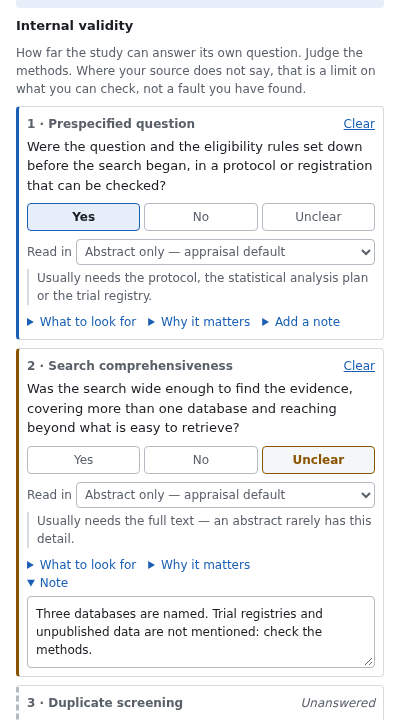
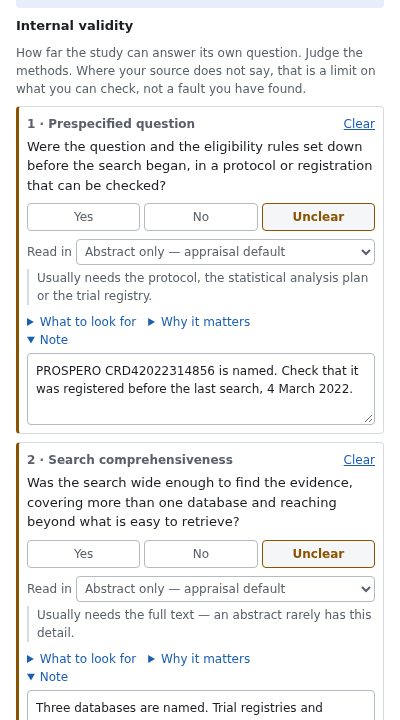
fix(site): harden the example page and the Markdown reader, per review
- The note says exactly what a person did in the capture: typed the PICO,
  chose the ratio and entered the baseline risk, marked two questions
  Unclear with notes, wrote the bottom line. It also says the absolute
  figures are recomputed, so they differ from the abstract's crude rates.
- Item 1 is now Unclear with a note to check the registration date. The
  abstract names PROSPERO but not when it was registered, and the checklist
  says the question needs the registry. screenshot-3 and appraisal.png are
  re-rendered for it.
- The page has its own h1, with the summary's headings moved down one level,
  is kept out of search indexes, and names its link.
- The Markdown reader no longer loops forever on a line such as `#1 finding`.
  A numbered line only interrupts a paragraph when it starts at 1, a list
  keeps its start number, and a DOI's parentheses stay in the link.
- The capture checks the PICO, the NNT and both notes in the downloaded file,
  and `pnpm store:assets` rebuilds the site pages afterwards.
- The generated pages' footer says the tool is not clinical decision support.

diff --git a/site/sample/index.html b/site/sample/index.html
@@ -6,6 +6,7 @@
     <meta name="viewport" content="width=device-width, initial-scale=1" />
     <title>Example one-page summary · Journal Club Helper</title>
     <meta name="description" content="An unedited one-page summary exported from Journal Club Helper." />
+    <meta name="robots" content="noindex" />
     <link rel="icon" href="/favicon.svg" type="image/svg+xml" />
     <link rel="stylesheet" href="/style.css" />
   </head>
@@ -14,46 +15,48 @@
       <a class="brand" href="/"><img src="/favicon.svg" alt="" width="28" height="28" />Journal Club Helper</a>
     </header>
     <main class="doc">
-<aside class="note">
-<p><strong>Example.</strong> This is a one-page summary exported from Journal Club Helper and not edited since, for a published meta-analysis in The BMJ. For this example, the PICO, the baseline risk in the Numbers tab, two checklist answers with a note, and the bottom line were typed in by hand, as a reader would. The rest is what the extension filled in, or left for the reader.</p>
-<p>The bottom line only shows what a reader might write. It is not a clinical conclusion and not advice. The Markdown file itself is <a href="/sample/summary.md">here</a>.</p>
-</aside>
-<h1>Efficacy of awake prone positioning in patients with covid-19 related hypoxemic respiratory failure: systematic review and meta-analysis of randomized trials</h1>
+<h1>Example one-page summary</h1>
+<div class="note">
+<p>This is a one-page summary exported from Journal Club Helper, unedited, for a published meta-analysis in The BMJ. For this example a person did what a reader would: typed the PICO, chose which of the abstract's ratios to use and entered the baseline risk to apply it to, marked two checklist questions Unclear with a note on each, and wrote the bottom line. The rest is what the extension filled in or calculated, or left blank for the reader.</p>
+<p>The absolute figures are calculated from the relative risk and that baseline risk, so they differ a little from the crude rates the abstract reports. The bottom line only shows what a reader might write. It is not a clinical conclusion and not advice.</p>
+<p><a href="/sample/summary.md">The exported Markdown file</a> is available as well.</p>
+</div>
+<h2>Efficacy of awake prone positioning in patients with covid-19 related hypoxemic respiratory failure: systematic review and meta-analysis of randomized trials</h2>
 <p>Weatherald J, Parhar KKS, Al Duhailib Z, et al. BMJ. 2022. PMID <a href="https://pubmed.ncbi.nlm.nih.gov/36740866/">36740866</a>. DOI <a href="https://doi.org/10.1136/bmj-2022-071966">10.1136/bmj-2022-071966</a>.</p>
-<h2>Clinical question (PICO)</h2>
+<h3>Clinical question (PICO)</h3>
 <table><thead><tr><th>Element</th><th>Detail</th></tr></thead><tbody><tr><td>Population</td><td>Non-intubated adults with hypoxemic respiratory failure due to covid-19</td></tr><tr><td>Intervention</td><td>Awake prone positioning</td></tr><tr><td>Comparison</td><td>Usual care</td></tr><tr><td>Outcome</td><td>Endotracheal intubation</td></tr></tbody></table>
-<h2>Study design</h2>
+<h3>Study design</h3>
 <p><strong>Systematic review / meta-analysis</strong></p>
 <p>Meta-analysis</p>
 <p>Detected from publication type. Evidence: Meta-Analysis (publication type), Systematic Review (publication type), meta-analysis (abstract keyword).</p>
-<h2>Key results</h2>
+<h3>Key results</h3>
 <ul><li>Reported relative effect: RR 0.83 (95% CI 0.73–0.94)</li><li>CER (assumed control event rate): 29.8%</li><li>EER (experimental event rate): 24.7%</li><li>ARR (absolute risk reduction): 5.1 percentage points (95% CI 1.8 to 8.0)</li><li>RRR (relative risk reduction): 17.0%</li><li>NNT 20 (95% CI 13–56)</li></ul>
 <p>Notes on these numbers:</p>
 <ul><li>This absolute effect is estimated from an assumed control event rate of 29.8%, so it only applies to patients whose untreated risk is close to that figure.</li></ul>
-<h2>Critical appraisal</h2>
+<h3>Critical appraisal</h3>
 <p>Appraised from: Abstract only.</p>
 <p>An Unclear verdict means the source above does not settle that question: it records a limit on what the reader could check, not a fault found in the study. Where an item was checked against a different document, that source is shown beside its verdict.</p>
-<h3>Internal validity</h3>
-<table><thead><tr><th>#</th><th>Item</th><th>Verdict</th></tr></thead><tbody><tr><td>1</td><td>Were the question and the eligibility rules set down before the search began, in a protocol or registration that can be checked?</td><td>Yes</td></tr><tr><td>2</td><td>Was the search wide enough to find the evidence, covering more than one database and reaching beyond what is easy to retrieve?</td><td>Unclear</td></tr><tr><td>3</td><td>Did two or more people screen the records and extract the data independently, with a stated way of settling disagreements?</td><td>—</td></tr><tr><td>4</td><td>Was each included study appraised for how it was conducted, and does that appraisal feed into what the review concludes?</td><td>—</td></tr><tr><td>5</td><td>Was the scatter between the individual study results examined and explained, rather than only reported as a statistic?</td><td>—</td></tr><tr><td>6</td><td>Are the studies alike enough in population, intervention and outcome definition for a single combined number to mean anything?</td><td>—</td></tr><tr><td>7</td><td>Did the review confront the possibility that completed studies were never published, or that the small ones report larger effects than the large ones?</td><td>—</td></tr><tr><td>8</td><td>Is the confidence the pooled estimate deserves stated, taking in the soundness, the consistency, the precision and the relevance of what went into it?</td><td>—</td></tr></tbody></table>
-<h3>Applicability</h3>
+<h4>Internal validity</h4>
+<table><thead><tr><th>#</th><th>Item</th><th>Verdict</th></tr></thead><tbody><tr><td>1</td><td>Were the question and the eligibility rules set down before the search began, in a protocol or registration that can be checked?</td><td>Unclear</td></tr><tr><td>2</td><td>Was the search wide enough to find the evidence, covering more than one database and reaching beyond what is easy to retrieve?</td><td>Unclear</td></tr><tr><td>3</td><td>Did two or more people screen the records and extract the data independently, with a stated way of settling disagreements?</td><td>—</td></tr><tr><td>4</td><td>Was each included study appraised for how it was conducted, and does that appraisal feed into what the review concludes?</td><td>—</td></tr><tr><td>5</td><td>Was the scatter between the individual study results examined and explained, rather than only reported as a statistic?</td><td>—</td></tr><tr><td>6</td><td>Are the studies alike enough in population, intervention and outcome definition for a single combined number to mean anything?</td><td>—</td></tr><tr><td>7</td><td>Did the review confront the possibility that completed studies were never published, or that the small ones report larger effects than the large ones?</td><td>—</td></tr><tr><td>8</td><td>Is the confidence the pooled estimate deserves stated, taking in the soundness, the consistency, the precision and the relevance of what went into it?</td><td>—</td></tr></tbody></table>
+<h4>Applicability</h4>
 <p>Applicability is not internal validity. A trial can be conducted impeccably and still not transfer to the patient in front of you, and a trial with real methodological weaknesses can still be about exactly your patient. Nothing below is a verdict on how the study was run.</p>
 <table><thead><tr><th>#</th><th>Item</th><th>Verdict</th></tr></thead><tbody><tr><td>9</td><td>Do the populations, interventions and comparators inside the review match the patients and the usual care you are deciding about?</td><td>—</td></tr></tbody></table>
-<h3>Funding &amp; conflicts</h3>
+<h4>Funding &amp; conflicts</h4>
 <p>Recorded as fact, never scored. Industry funding is not by itself a source of bias, and a field left blank means nothing was recorded here — not that there was nothing to record.</p>
 <ul><li>Funder: Not recorded.</li><li>Sponsor or funder role: Not recorded.</li><li>Author conflicts declared: Not recorded.</li><li>Where this came from: Not recorded.</li></ul>
-<h3>Notes on flagged items</h3>
+<h4>Notes on flagged items</h4>
 <p>Items answered No — judgements the reader made, about the study or about its fit:</p>
 <ul><li>None.</li></ul>
 <p>Items answered Unclear — the source used does not settle these, which is not a finding against the study:</p>
-<ul><li>Item 2: Three databases are named. Trial registries and unpublished data are not mentioned: check the methods. Usually needs the full text — an abstract rarely has this detail.</li></ul>
-<h2>Bottom line</h2>
+<ul><li>Item 1: PROSPERO CRD42022314856 is named. Check that it was registered before the last search, 4 March 2022. Usually needs the protocol, the statistical analysis plan or the trial registry.</li><li>Item 2: Three databases are named. Trial registries and unpublished data are not mentioned: check the methods. Usually needs the full text — an abstract rarely has this detail.</li></ul>
+<h3>Bottom line</h3>
 <p>Pooled trials show fewer intubations with awake prone positioning, and no clear effect on mortality. How the trials differed in setting and adherence needs the full text.</p>
-<h2>Discussion questions</h2>
+<h3>Discussion questions</h3>
 <ol><li></li><li></li><li></li></ol>
 <p>Generated with Journal Club Helper for educational purposes. Verify against the full text.</p>
     </main>
     <footer class="foot">
-      <p>Educational use only. Not affiliated with NLM, NIH or HHS.</p>
+      <p>Educational use only, not clinical decision support. Not affiliated with NLM, NIH or HHS.</p>
     </footer>
   </body>
 </html>

diff --git a/store/capture.spec.ts b/store/capture.spec.ts
@@ -42,6 +42,8 @@ const PICO = {
 const RATIO_RAW = 'relative risk 0.83, 95% confidence interval 0.73 to 0.94';
 const BASELINE_RISK = '29.8';
 const EXPECTED_NNT = 'NNT 20 (95% CI 13–56)';
+const REGISTRATION_NOTE =
+  'PROSPERO CRD42022314856 is named. Check that it was registered before the last search, 4 March 2022.';
 const SEARCH_NOTE =
   'Three databases are named. Trial registries and unpublished data are not mentioned: check the methods.';
 const BOTTOM_LINE =
@@ -200,13 +202,19 @@ test('store listing images', async ({ context, page, extensionId }) => {
     'Apply a ratio from the abstract to a baseline risk and see the ARR and the NNT, with the 95% CI carried over.',
   );
 
-  // 3. The appraisal checklist, answered from what the abstract says.
+  // 3. The appraisal checklist, as far as the abstract goes. It names a
+  // registration but not its date, and three databases but nothing beyond
+  // them, so both questions stay Unclear, each with what to check.
   await tab(panel, 'Appraisal');
-  await item(panel, 'Prespecified question').locator('.validity-choice--yes').click();
-  const search = item(panel, 'Search comprehensiveness');
-  await search.locator('.validity-choice--unclear').click();
-  await search.getByText('Add a note').click();
-  await search.locator('.validity-note').fill(SEARCH_NOTE);
+  for (const [concept, note] of [
+    ['Prespecified question', REGISTRATION_NOTE],
+    ['Search comprehensiveness', SEARCH_NOTE],
+  ] as const) {
+    const question = item(panel, concept);
+    await question.locator('.validity-choice--unclear').click();
+    await question.getByText('Add a note').click();
+    await question.locator('.validity-note').fill(note);
+  }
   await blur(panel);
   await panel
     .locator('.validity-section__title')
@@ -240,13 +248,19 @@ test('store listing images', async ({ context, page, extensionId }) => {
 
   // The landing site's example output is this appraisal's summary, saved
   // through the panel's own Download button so it is the file a reader gets.
+  // The note above it (samplePage in scripts/build-site.mjs) lists what was
+  // entered by hand here: change both together.
   const [download] = await Promise.all([
     panel.waitForEvent('download'),
     panel.getByRole('button', { name: 'Download .md' }).click(),
   ]);
   mkdirSync('site/sample', { recursive: true });
   await download.saveAs('site/sample/summary.md');
-  expect(readFileSync('site/sample/summary.md', 'utf8')).toContain(BOTTOM_LINE);
+  const summary = readFileSync('site/sample/summary.md', 'utf8');
+  for (const text of [...Object.values(PICO), EXPECTED_NNT, REGISTRATION_NOTE, SEARCH_NOTE]) {
+    expect(summary).toContain(text);
+  }
+  expect(summary).toContain(BOTTOM_LINE);
 
   // 5. Settings, where the saved appraisal and the local counters are.
   const options = await context.newPage();

diff --git a/tests/lib/build-site.test.ts b/tests/lib/build-site.test.ts
@@ -80,6 +80,34 @@ describe('the landing site builder', () => {
     );
   });
 
+  it('keeps a number that only continues a paragraph, and numbers a list from where it starts', () => {
+    expect(markdownToHtml('# T\nPublished in\n2022. It was large.').html).toBe(
+      '<h1>T</h1>\n<p>Published in 2022. It was large.</p>',
+    );
+    expect(markdownToHtml('# T\nQuestions:\n1. First').html).toBe(
+      '<h1>T</h1>\n<p>Questions:</p>\n<ol><li>First</li></ol>',
+    );
+    expect(markdownToHtml('# T\n\n2022. PMID 1.').html).toBe(
+      '<h1>T</h1>\n<ol start="2022"><li>PMID 1.</li></ol>',
+    );
+  });
+
+  it('reads a line that starts with # but is not a heading as text, instead of stopping', () => {
+    expect(markdownToHtml('# T\n\n#1 finding\nmore').html).toBe(
+      '<h1>T</h1>\n<p>#1 finding more</p>',
+    );
+  });
+
+  it('keeps parentheses inside a link target, as in some DOIs', () => {
+    expect(inline('[doi](https://doi.org/10.1016/S0140-6736(20)30183-5).')).toBe(
+      '<a href="https://doi.org/10.1016/S0140-6736(20)30183-5">doi</a>.',
+    );
+  });
+
+  it('moves headings down when the page has its own h1', () => {
+    expect(markdownToHtml('# T\n\n## S', { headingOffset: 1 }).html).toBe('<h2>T</h2>\n<h3>S</h3>');
+  });
+
   it('fails on Markdown it does not understand instead of publishing it half-converted', () => {
     expect(() => markdownToHtml('# T\n\n* starred')).toThrow(/Unsupported Markdown/);
     expect(() => markdownToHtml('# T\n\n```\ncode\n```')).toThrow(/Unsupported Markdown/);
@@ -97,8 +125,10 @@ describe('the landing site builder', () => {
   it('publishes the example summary with the note on what a person typed', () => {
     const markdown = readFileSync('site/sample/summary.md', 'utf8');
     const page: string = samplePage(markdown);
-    expect(page).toContain('typed in by hand');
+    expect(page).toContain('<h1>Example one-page summary</h1>');
+    expect(page).toContain('a person did what a reader would');
     expect(page).toContain('not a clinical conclusion');
+    expect(page).toContain('<meta name="robots" content="noindex" />');
     for (const [, text] of markdown.matchAll(/^#{1,3} (.+)$/gm)) {
       expect(page).toContain(`>${inline(text)}</h`);
     }

diff --git a/site/index.html b/site/index.html
@@ -67,7 +67,7 @@
             width="400"
             height="720"
             loading="lazy"
-            alt="The Appraisal tab for a meta-analysis: the prespecified question answered Yes, and search comprehensiveness answered Unclear with a note to check the methods."
+            alt="The Appraisal tab for a meta-analysis: the prespecified question and search comprehensiveness both answered Unclear, each with a note on what to check in the full record."
           />
         </div>
 

diff --git a/site/privacy/index.html b/site/privacy/index.html
@@ -50,7 +50,7 @@
 <table><thead><tr><th>Date</th><th>Change</th></tr></thead><tbody><tr><td>TBD(#29)</td><td>First published policy.</td></tr></tbody></table>
     </main>
     <footer class="foot">
-      <p>Educational use only. Not affiliated with NLM, NIH or HHS.</p>
+      <p>Educational use only, not clinical decision support. Not affiliated with NLM, NIH or HHS.</p>
     </footer>
   </body>
 </html>

diff --git a/site/style.css b/site/style.css
@@ -201,7 +201,8 @@ img {
 }
 
 /* A long URL written out as its own link text must not widen a phone screen. */
-.doc a {
+.doc p > a,
+.doc li > a {
   overflow-wrap: anywhere;
 }
 
@@ -211,7 +212,8 @@ img {
 }
 
 .doc h2,
-.doc h3 {
+.doc h3,
+.doc h4 {
   line-height: 1.3;
   margin-top: 1.6em;
 }

diff --git a/docs/HANDOVER.md b/docs/HANDOVER.md
@@ -215,7 +215,7 @@ A rejection names the policy it cites. Record it in §6 with what was changed, s
 
 ### Landing site (#29)
 
-`site/` is the whole landing site: `index.html` and `style.css` by hand, and `privacy/index.html`, `sample/index.html` and `favicon.svg` generated from `docs/PRIVACY.md`, `site/sample/summary.md` and `store/icon.svg` by `pnpm site` (`scripts/build-site.mjs`). CI fails if the generated files are out of date, so the published policy is always the committed one. There is no framework, no external font, no script and no analytics. Lighthouse gave 100 in every category, mobile and desktop, on a local server (2026-09-27).
+`site/` is the whole landing site: `index.html` and `style.css` by hand, and `privacy/index.html`, `sample/index.html` and `favicon.svg` generated from `docs/PRIVACY.md`, `site/sample/summary.md` and `store/icon.svg` by `pnpm site` (`scripts/build-site.mjs`). CI fails if the generated files are out of date, so the published policy is always the committed one. There is no framework, no external font, no script and no analytics. Lighthouse gave the home page and the privacy page 100 in every category, mobile and desktop, on a local server (2026-09-27). The example page has not been measured.
 
 - **Hosting:** GitHub Pages from the organization's repository, deployed by `.github/workflows/pages.yml`. It is chosen because it moves with the organization and costs nothing. The domain stays at the registrar, which transfers separately (§1). The workflow runs only by hand until #30, and it has never run.
 - **Going live, once #30 is done:**

diff --git a/site/sample/summary.md b/site/sample/summary.md
@@ -42,7 +42,7 @@ An Unclear verdict means the source above does not settle that question: it reco
 
 | # | Item | Verdict |
 | --- | --- | --- |
-| 1 | Were the question and the eligibility rules set down before the search began, in a protocol or registration that can be checked? | Yes |
+| 1 | Were the question and the eligibility rules set down before the search began, in a protocol or registration that can be checked? | Unclear |
 | 2 | Was the search wide enough to find the evidence, covering more than one database and reaching beyond what is easy to retrieve? | Unclear |
 | 3 | Did two or more people screen the records and extract the data independently, with a stated way of settling disagreements? | — |
 | 4 | Was each included study appraised for how it was conducted, and does that appraisal feed into what the review concludes? | — |
@@ -76,6 +76,7 @@ Items answered No — judgements the reader made, about the study or about its f
 
 Items answered Unclear — the source used does not settle these, which is not a finding against the study:
 
+- Item 1: PROSPERO CRD42022314856 is named. Check that it was registered before the last search, 4 March 2022. Usually needs the protocol, the statistical analysis plan or the trial registry.
 - Item 2: Three databases are named. Trial registries and unpublished data are not mentioned: check the methods. Usually needs the full text — an abstract rarely has this detail.
 
 ## Bottom line

diff --git a/docs/STORE-LISTING.md b/docs/STORE-LISTING.md
@@ -88,7 +88,7 @@ Checked against the store's policies and the spec's positioning (§1, §9):
 | ------------------------ | --------------------------------------------------------------------------------- | -------------------------------------------------- |
 | `store/screenshot-1.png` | The design header with its evidence, and a PICO the reader wrote                  | See the study design, and why it was detected      |
 | `store/screenshot-2.png` | Numbers: the abstract's relative risk applied to a baseline risk, NNT with 95% CI | Get the absolute effect, not just the relative one |
-| `store/screenshot-3.png` | The appraisal checklist, two questions answered from the abstract                 | Work through risk of bias, one question at a time  |
+| `store/screenshot-3.png` | The appraisal checklist, two questions the abstract leaves open, with notes       | Work through risk of bias, one question at a time  |
 | `store/screenshot-4.png` | Export, with the reader's bottom line                                             | Take a one-page summary to journal club            |
 | `store/screenshot-5.png` | Settings                                                                          | Your appraisals stay on your device                |
 
